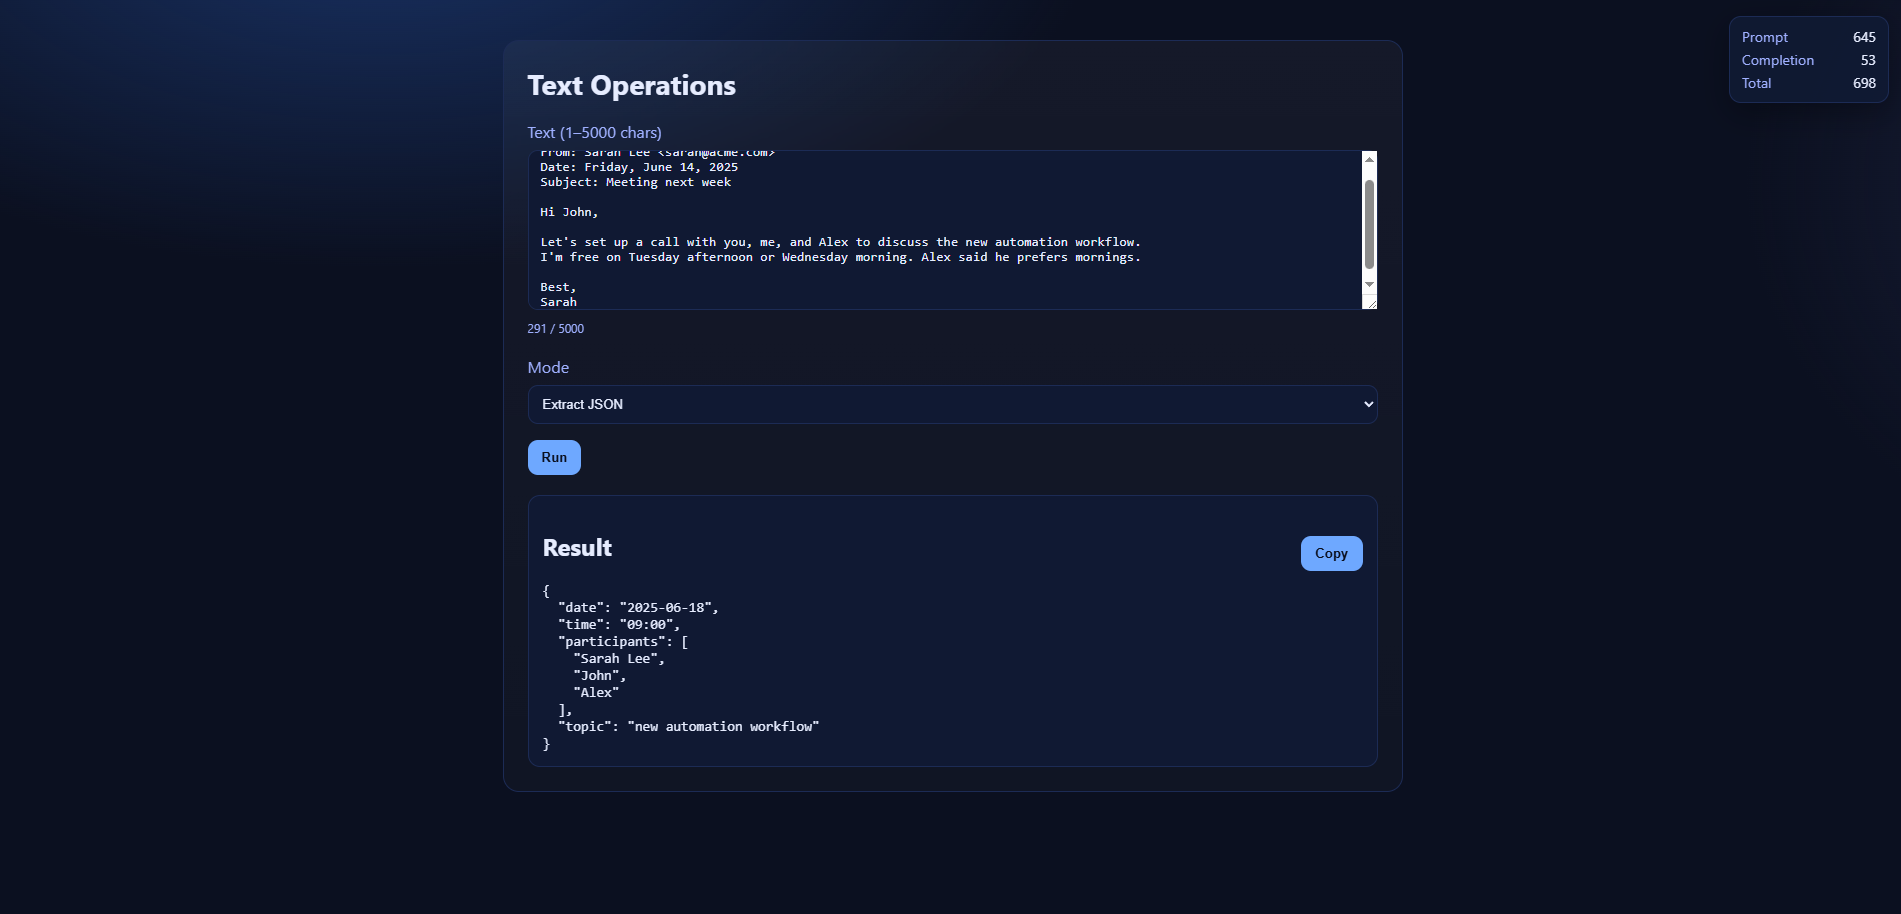
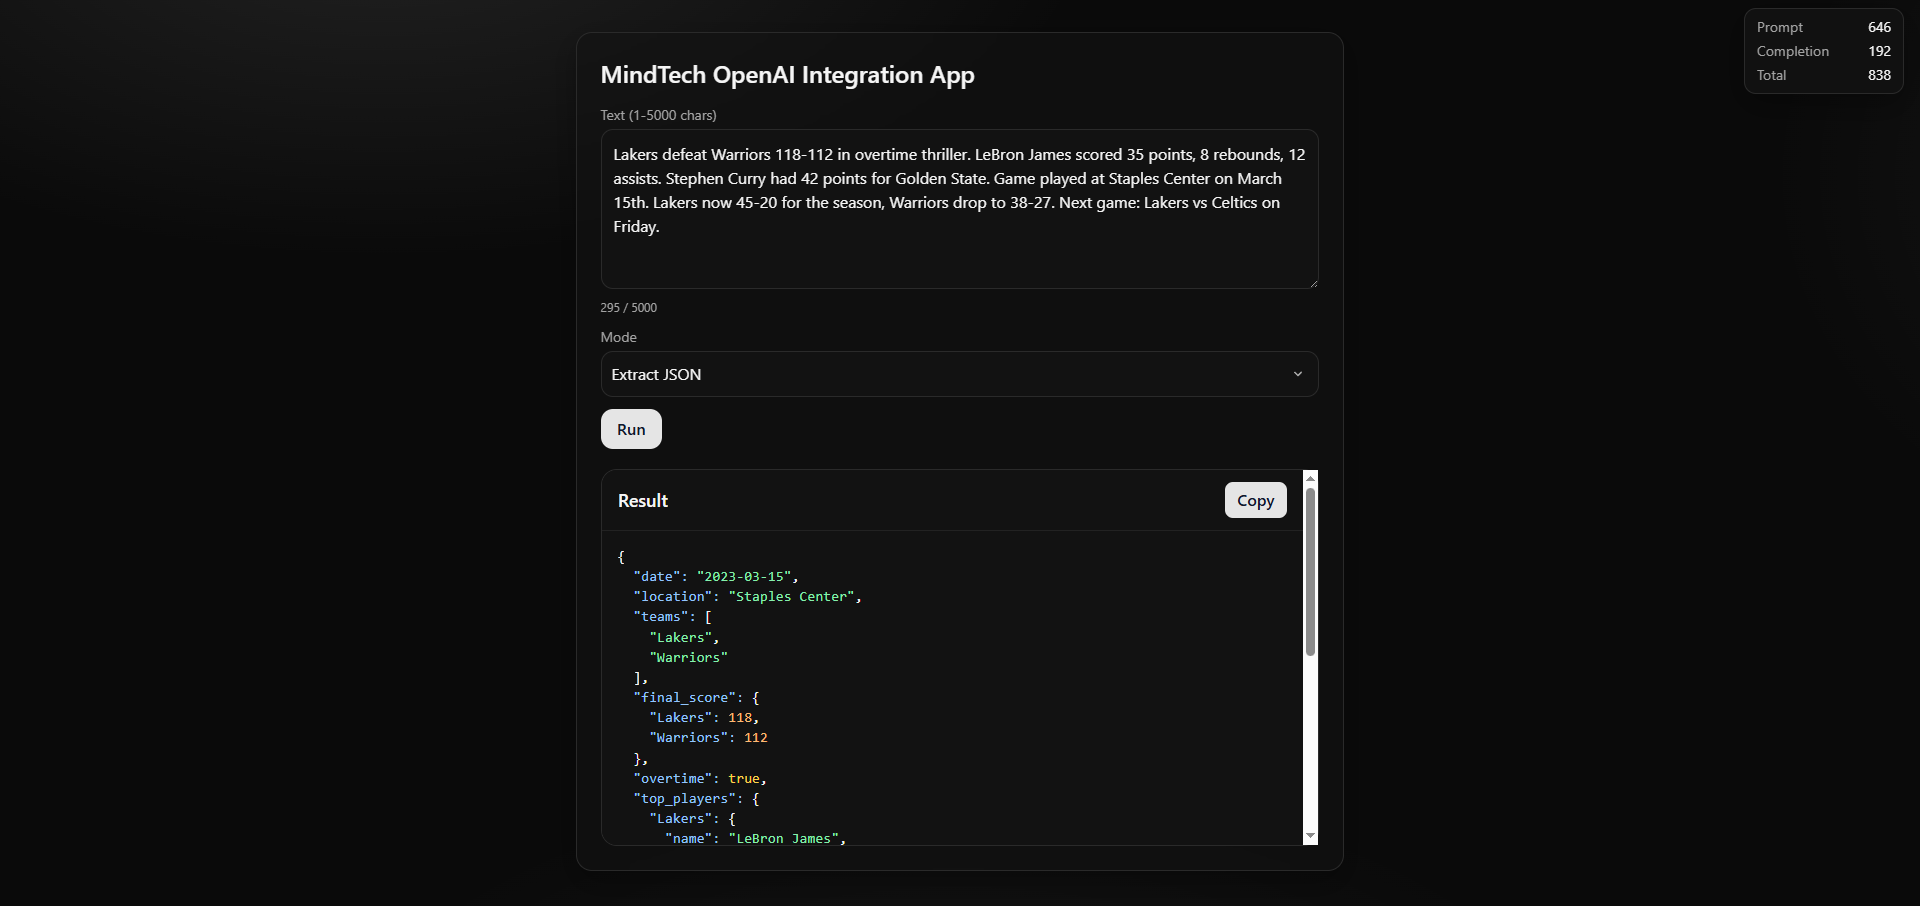
fixed doc

diff --git a/PROMPTS.md b/PROMPTS.md
@@ -1,0 +1,202 @@
+# 1. Summarize
+
+## id: pmpt_68a474e7c0808190a434ef65cae9a14602ac36a9d3983ce9
+
+## Prompt:
+
+```markdown
+Summarize the provided text by following these steps:
+
+- Read and analyze the text carefully, ensuring to understand its context.
+- Divide the text into smaller, logical sections or parts.
+- For each part, determine and record the most important information.
+- Write a brief summary for each part.
+- Combine the part summaries and distill them into one concise final summary that is noticeably shorter than the original text.
+- Return only the final summary.
+
+Output Format:
+
+- Provide a single, short paragraph containing the final summary.
+- Do not include intermediate steps, explanations, or section summaries—only the final, combined summary.
+
+Example:
+Input: [Original text here]
+Output: [Final, concise summary—shorter than original text]
+
+Important: Your task is to deeply process the text, extract key points, condense them, and output a single, much shorter summary paragraph.
+```
+
+---
+
+# 2. Rephrase (tone-controlled)
+
+## id: pmpt_68a4702dca888195bde8bc07f83cff050bc96f5d248ef4f3
+
+## Prompt:
+
+```markdown
+Rephrase the user-provided text so that it matches the specified tone: friendly, professional, or casual.
+
+- Carefully read the input text and the requested tone.
+- Internally consider how to adjust word choice, sentence structure, and level of formality to best align with the target tone before writing your output.
+- Maintain the original intent and meaning of the text.
+- Do not add or remove information.
+- Output ONLY the rephrased text in this format:
+	[your rephrased version]
+
+- DO NOT include any extra commentary or explanations.
+- Ensure the rephrased text is in a single, natural-sounding sentence (unless the original requires more).
+- Always match the specified tone as closely as possible.
+
+**Examples**
+
+Example 1
+Input: I need you to send the report by noon. friendly
+Output:
+Could you please send me the report by noon? I’d really appreciate your help with this!
+
+Example 2
+Input: Complete the form before Friday. professional
+Output:
+Please ensure that the form is completed prior to Friday.
+
+Example 3
+Input: Let’s meet soon to catch up! casual
+Output:
+Hey, let’s hang out soon and catch up!
+
+(If providing your own examples, ensure each one fits the appropriate tone and uses a placeholder for longer or more complex text.)
+
+---
+
+**IMPORTANT REMINDER:**
+Rephrase user text into the specified tone (friendly, professional, or casual).
+
+Output only the rephrased text in the format provided. No extra commentary. Consider word choice and sentence structure to best fit the intended style.
+```
+
+---
+
+# 3. Extract JSON
+
+## id: pmpt_68a43fb1c3f4819485b94231db77924d03edc241f1f44f9b
+
+## Prompt:
+
+```markdown
+Extract a concise summary from a text input and present it in JSON format, capturing key structured information such as dates, times, participants, topics, or other contextually relevant details.
+
+- Analyze the text to identify important information, such as names, dates, times, meeting topics, or details about actions.
+- Reason step-by-step to determine which information should be included in the summary, using context from the text to infer or disambiguate details where necessary.
+- Only after completing the reasoning, generate a well-structured JSON output containing the identified summary fields.
+- If the text contains ambiguity (e.g., time or date not strictly specified), make reasonable inferences based on the information provided in the message.
+- Do not include irrelevant details; keep the output concise, factual, and limited to essential elements as seen in the example.
+- Continue analyzing until all structured summary details have been found before producing your final answer.
+
+**Output format:**
+Produce only a single JSON object, with clearly labeled fields for each relevant information type. Ensure correct key naming, consistent with the corresponding content (e.g., "date", "time", "participants"). Do not include any explanations, markdown code blocks, or extraneous output.
+
+---
+
+**Example**
+
+User input:
+
+From: Sarah Lee [sarah@acme.com](mailto:sarah@acme.com)
+
+Date: Friday, June 14, 2025
+
+Subject: Meeting next week
+
+Hi John,
+
+Let's set up a call with you, me, and Alex to discuss the new automation workflow.
+
+I'm free on Tuesday afternoon or Wednesday morning. Alex said he prefers mornings.
+
+Best,
+
+Sarah
+
+Reasoning (should occur before the conclusion and inform field selection):
+
+- Identify participants: Sarah Lee (sender), John (recipient), Alex (mentioned)
+- Dates and times offered: Tuesday afternoon or Wednesday morning; Alex prefers mornings
+- Most likely meeting: Wednesday morning (due to Alex’s preference and specific mention)
+- Assign date: Next Wednesday after June 14, 2025 is June 18, 2025
+- Assign time: Default to 09:00 if "morning" is specified
+
+Final output JSON:
+
+{
+"date": "2025-06-18",
+"time": "09:00",
+"participants": [
+"Sarah Lee",
+"John",
+"Alex"
+]
+}
+
+(For longer or more complex real-world inputs, the JSON may contain additional fields like "topic", "location", or "action_items" using the same reasoning process.)
+
+---
+
+**Important Reminder:**
+
+Carefully reason through the text and extract all structured, relevant summary details before producing your final JSON summary. The output should always be a single JSON object, without markdown or explanations.
+```
+
+---
+
+# 4. Classify Sentiment
+
+## id: pmpt_68a477eab56881939f7bf4cba18e5a4409d26bd11e5cd881
+
+## Prompt:
+
+```markdown
+Analyze a given text to classify its sentiment as 'positive', 'negative', 'neutral', or 'sarcastic' by following these steps:
+
+1. **Identify** all sentiment-bearing words and their intensities within the text.
+2. **Check** for the presence and scope of any negations that may reverse or modify sentiment.
+3. **Examine** the broader context and situation described to understand underlying emotional cues.
+4. **Look** for contradictions between the literal meaning of words and the implied context.
+5. **Detect** any use of exaggeration, hyperbole, or tone that seems inappropriate or extreme for the situation.
+6. **Consider** whether rhetorical devices such as irony or ridicule suggest sarcasm.
+7. **Classify** the sentiment based on your analysis.
+
+## Output Requirements
+
+- Respond with exactly one word: `positive`, `negative`, `neutral`, or `sarcastic`
+- Do not include any reasoning, explanations, or additional text
+- If multiple sentiments are detected, prioritize `sarcastic` if sarcasm is present
+
+## Examples
+
+### Example 1
+Input: I just love waiting in traffic for hours—best part of my day.
+sarcastic
+
+### Example 2
+Input: The weather was fine during our picnic.
+neutral
+
+### Example 3
+Input: I'm so happy you forgot my birthday.
+sarcastic
+
+### Example 4
+Input: The new software update made things much worse.
+negative
+
+### Example 5
+Input: This movie was absolutely amazing and entertaining!
+positive
+
+---
+
+**Remember:** Analyze the text using the steps above, but respond with only one word.  output only the sentiment and nothing else.
+```
+
+---

diff --git a/README.md b/README.md
@@ -79,13 +79,64 @@ Response:
 }
 ```
 
+## Prompts
+
+We use four pre-authored prompts (see `PROMPTS.md`) identified by environment variables:
+
+- summarize → `SUMMARIZE_PROMPT_ID`
+- rephrase → `REPHRASE_PROMPT_ID`
+- extract_json → `EXTRACT_JSON_PROMPT_ID`
+- classify sentiment → `CLASSIFY_SENTIMENT_PROMPT_ID`
+
+Each prompt is designed for its task:
+- __Summarize__: distills input into a short paragraph.
+- __Rephrase__: rewrites to a requested tone (friendly/professional/casual) without changing meaning.
+- __Extract JSON__: extracts structured fields; client pretty‑prints JSON.
+- __Classify__: returns a one‑word sentiment label.
+
+See `PROMPTS.md` for the exact wording and example behaviors.
+
 ## Frontend features
 
-- Character counter with validation (1–5000)
-- Mode + conditional Tone select
-- Copy result
-- JSON pretty‑print with syntax highlighting
-- Usage panel (prompt / completion / total tokens)
+
+- __React + Vite__: React 19 + Vite dev server with SWC plugin (`@vitejs/plugin-react-swc`).
+- __API integration__: Calls `POST /api/run` with `{ mode, text, tone? }`; surfaces backend error `detail`.
+- __Submit guarding__: Disables submit when invalid or busy; shows "Running…" while awaiting response.
+- __Result rendering__:
+  - For `extract_json`, attempts to parse and pretty‑print JSON; falls back to plain text on parse failure.
+  - Client‑side JSON syntax highlighting via `syntaxHighlight()` in `frontend/src/App.jsx`.
+- __Clipboard__: One‑click copy of the result via `navigator.clipboard`.
+- __Floating usage widget__: Token usage (prompt/completion/total) shown when a result exists.
+- __Styling__: Tailwind utility classes with custom theme tokens (e.g., `bg-card`, `border-border`, `accent`, `text-muted`).
+- __Custom selects__: Chevron added via CSS background in `frontend/src/index.css` (`.select-chev`).
+- __A11y basics__: Associated `<label>` tags, `required`, `minLength`/`maxLength`, and disabled states.
+
+## Backend design
+
+- __FastAPI service__: `backend/app.py` with a single typed endpoint `POST /api/run` returning `RunResponse`.
+- __Validation__: Pydantic `RunRequest` enforces 1–5000 chars; `tone` required when `mode = rephrase`.
+- __OpenAI integration__: Uses `OPENAI_API_KEY` and `OPENAI_MODEL` (Responses API). Prompt IDs per mode via env vars.
+- __Mode tuning__: Temperature defaults to 0.2; `extract_json` forced to 0.0 for determinism.
+- __JSON handling__: When `mode = extract_json`, tries to parse JSON; falls back to raw string if parsing fails.
+- __Usage metering__: Normalizes token usage from SDK fields into `{prompt, completion, total}`.
+- __Error handling__: Maps upstream errors to proper HTTP codes/messages; avoids leaking stack traces.
+- __Rate limiting__: In‑memory sliding window, configurable via `RATE_LIMIT_REQUESTS`/`RATE_LIMIT_WINDOW_SEC`.
+- __Config__.env__: Loaded via `python-dotenv`; all secrets stay server‑side.
+
+## API design
+
+- __Endpoint__: `POST /api/run`
+- __Contract__: Request/response shapes shown above. The `mode` drives behavior; `tone` is required only for `rephrase`.
+- __Determinism__: `extract_json` uses `temperature=0.0` to make outputs stable for parsing.
+- __Rate limit__: Returns 429 with `Retry-After` header when the per‑IP window is exceeded.
+- __CORS__: Development CORS is permissive to simplify local testing.
+
+## Error handling
+
+- __Client errors__ (400): Validation issues like missing `tone` for `rephrase`.
+- __Rate limit__ (429): Too many requests in the window; `Retry-After` indicates when to retry.
+- __Upstream errors__ (5xx): OpenAI failures are surfaced with safe, human‑readable messages.
+- __Misconfiguration__ (500): Missing `OPENAI_API_KEY` or prompt IDs return clear setup errors.
 
 ## Tests
 
@@ -102,13 +153,15 @@ Included checks (see `tests/test_api.py`):
 - extract_json returns valid JSON
 - rate‑limit returns 429 after threshold
 
-## Deployment notes
-
-- Provide all env vars at deploy time (never hardcode keys in the frontend).
-- Serve the built frontend (Vite `npm run build`) behind the FastAPI app or a static host; point the UI to the API origin.
+---
+__sample prompts are in `sample.txt`__
 
 ## Screenshots
 
+UI:
+
 ![UI](screenshot_ui.png)
+
+JSON:
 
 ![JSON](screenshot_json.png)

diff --git a/TASK.md b/TASK.md
@@ -1,0 +1,74 @@
+# App with OpenAI Integration
+
+## Purpose
+
+A minimal web application that accepts user text and performs one of four OpenAI-powered operations: Summarize, Rephrase (tone-controlled), Extract JSON, Classify sentiment. The app must expose a single backend endpoint that calls OpenAI and a simple frontend to exercise it.
+
+## Deliverables
+
+1. Working web app (frontend + backend).
+2. Source code in a repo with a short README.md describing setup and run commands.
+3. .env.example showing required environment variables.
+4. Light automated checks (unit or contract tests) for the backend endpoint.
+5. A short sample input file (sample.txt) for manual verification.
+
+## Requirements
+
+### Functional
+
+- Users can paste text (1–5000 chars).
+- Users choose one Mode: summarize, rephrase, extract_json, classify.
+- If Mode = rephrase, users must choose Tone: casual | professional | friendly.
+- On submit, the app calls your backend (not OpenAI directly from the browser).
+- The result is displayed in a result panel.
+    - For extract_json, render pretty-printed JSON.
+- Show token usage returned by OpenAI: prompt, completion, total.
+- Provide a “Copy result” button.
+
+### Non-Functional
+
+- Keep the OpenAI API key on the server only.
+- Handle errors with human-readable messages (no stack traces in the UI).
+- No external databases required.
+
+### UI Requirements
+
+- Single-page layout.
+- Controls:
+    - Mode (select)
+    - Tone (select, visible only when Mode = rephrase)
+    - Text area (paste input)
+    - Run button
+    - Copy result button
+- Result panel with monospaced rendering for JSON mode.
+- Small footer line showing token usage.
+
+### Testing (minimal)
+
+- Provide automated tests that assert:
+    - summarize with valid input returns 200 and non-empty result.
+    - rephrase without tone returns 400.
+    - classify returns one of the three allowed labels.
+    - extract_json returns valid JSON with all required keys.
+    - Rate limit path returns 429 after threshold (can be a lowered threshold in test).
+
+### Out of Scope
+
+- User auth.
+- Persistent storage.
+- Cloud deployment.
+
+## Acceptance Criteria (Pass/Fail)
+
+- All Mode specs met exactly.
+- Token usage visible in UI.
+- .env.example present; app runs locally with documented commands.
+- Tests pass locally.
+- No API key present in client code or devtools network traces.
+
+## Submission
+
+- Repo URL with instructions.
+- Include two screenshots in the repo:
+    - screenshot_ui.png (app with controls/results)
+    - screenshot_json.png (valid extract_json output shown)
